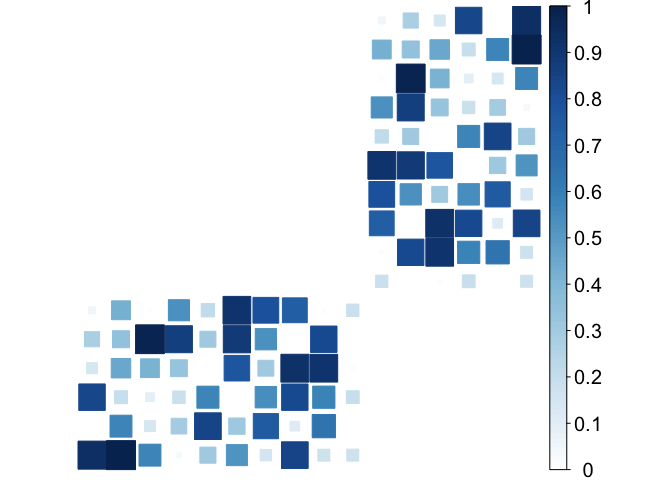
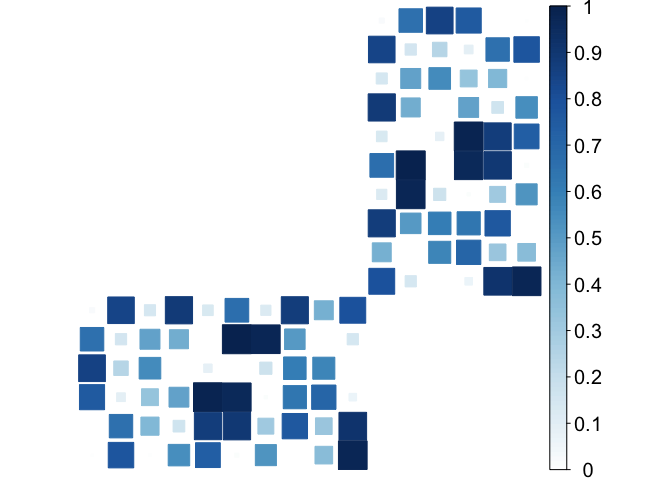
update bipartite plot

Changed region(s): [[0.0938, 0.0, 0.8125, 1.0]]

diff --git a/_site/docs/structured/bipartite/index.html b/_site/docs/structured/bipartite/index.html
@@ -194,7 +194,7 @@
           
         
         <div id="main-content" class="page-content" role="main">
-          <h1 class="no_toc" id="grid">Grid</h1>
+          <h1 class="no_toc" id="bipartite">Bipartite</h1>
 
 <h2 class="no_toc text-delta" id="table-of-contents">Table of contents</h2>
 
@@ -205,7 +205,6 @@
 </span><span class="n">library</span><span class="p">(</span><span class="n">igraph</span><span class="p">)</span><span class="w">
 </span><span class="n">library</span><span class="p">(</span><span class="n">viridis</span><span class="p">)</span><span class="w">
 </span><span class="n">library</span><span class="p">(</span><span class="n">corrplot</span><span class="p">)</span><span class="w">
-
 </span><span class="n">n</span><span class="m">1</span><span class="w"> </span><span class="o">&lt;-</span><span class="w"> </span><span class="m">10</span><span class="w">
 </span><span class="n">n</span><span class="m">2</span><span class="w"> </span><span class="o">&lt;-</span><span class="w"> </span><span class="m">6</span><span class="w">
 </span><span class="n">n</span><span class="w"> </span><span class="o">&lt;-</span><span class="w"> </span><span class="n">n</span><span class="m">1</span><span class="w"> </span><span class="o">+</span><span class="w"> </span><span class="n">n</span><span class="m">2</span><span class="w">
@@ -228,23 +227,64 @@
 </span><span class="n">Y</span><span class="w"> </span><span class="o">&lt;-</span><span class="w"> </span><span class="n">MASS</span><span class="o">::</span><span class="n">mvrnorm</span><span class="p">(</span><span class="m">10</span><span class="w"> </span><span class="o">*</span><span class="w"> </span><span class="n">n</span><span class="p">,</span><span class="w"> </span><span class="nf">rep</span><span class="p">(</span><span class="m">0</span><span class="p">,</span><span class="w"> </span><span class="n">n</span><span class="p">),</span><span class="w"> </span><span class="n">Sigma</span><span class="w"> </span><span class="o">=</span><span class="w"> </span><span class="n">MASS</span><span class="o">::</span><span class="n">ginv</span><span class="p">(</span><span class="n">Lnoisy</span><span class="p">))</span><span class="w">
 </span><span class="c1"># compute sample covariance matrix</span><span class="w">
 </span><span class="n">S</span><span class="w"> </span><span class="o">&lt;-</span><span class="w"> </span><span class="n">cov</span><span class="p">(</span><span class="n">Y</span><span class="p">)</span><span class="w">
+</span><span class="c1"># estimate Adjacency matrix</span><span class="w">
 </span><span class="n">graph</span><span class="w"> </span><span class="o">&lt;-</span><span class="w"> </span><span class="n">learn_bipartite_graph</span><span class="p">(</span><span class="n">S</span><span class="p">,</span><span class="w"> </span><span class="n">w</span><span class="m">0</span><span class="w"> </span><span class="o">=</span><span class="w"> </span><span class="s2">"qp"</span><span class="p">,</span><span class="w"> </span><span class="n">verbose</span><span class="w"> </span><span class="o">=</span><span class="w"> </span><span class="kc">FALSE</span><span class="p">)</span><span class="w">
+</span><span class="c1"># Plot Adjacency matrices: true, noisy, and estimated</span><span class="w">
 </span><span class="n">corrplot</span><span class="p">(</span><span class="n">Atrue</span><span class="w"> </span><span class="o">/</span><span class="w"> </span><span class="nf">max</span><span class="p">(</span><span class="n">Atrue</span><span class="p">),</span><span class="w"> </span><span class="n">is.corr</span><span class="w"> </span><span class="o">=</span><span class="w"> </span><span class="kc">FALSE</span><span class="p">,</span><span class="w"> </span><span class="n">method</span><span class="w"> </span><span class="o">=</span><span class="w"> </span><span class="s2">"square"</span><span class="p">,</span><span class="w"> </span><span class="n">addgrid.col</span><span class="w"> </span><span class="o">=</span><span class="w"> </span><span class="kc">NA</span><span class="p">,</span><span class="w"> </span><span class="n">tl.pos</span><span class="w"> </span><span class="o">=</span><span class="w"> </span><span class="s2">"n"</span><span class="p">,</span><span class="w"> </span><span class="n">cl.cex</span><span class="w"> </span><span class="o">=</span><span class="w"> </span><span class="m">1.25</span><span class="p">)</span><span class="w">
 </span><span class="n">corrplot</span><span class="p">(</span><span class="n">Anoisy</span><span class="w"> </span><span class="o">/</span><span class="w"> </span><span class="nf">max</span><span class="p">(</span><span class="n">Anoisy</span><span class="p">),</span><span class="w"> </span><span class="n">is.corr</span><span class="w"> </span><span class="o">=</span><span class="w"> </span><span class="kc">FALSE</span><span class="p">,</span><span class="w"> </span><span class="n">method</span><span class="w"> </span><span class="o">=</span><span class="w"> </span><span class="s2">"square"</span><span class="p">,</span><span class="w"> </span><span class="n">addgrid.col</span><span class="w"> </span><span class="o">=</span><span class="w"> </span><span class="kc">NA</span><span class="p">,</span><span class="w"> </span><span class="n">tl.pos</span><span class="w"> </span><span class="o">=</span><span class="w"> </span><span class="s2">"n"</span><span class="p">,</span><span class="w"> </span><span class="n">cl.cex</span><span class="w"> </span><span class="o">=</span><span class="w"> </span><span class="m">1.25</span><span class="p">)</span><span class="w">
 </span><span class="n">corrplot</span><span class="p">(</span><span class="n">graph</span><span class="o">$</span><span class="n">Adjacency</span><span class="w"> </span><span class="o">/</span><span class="w"> </span><span class="nf">max</span><span class="p">(</span><span class="n">graph</span><span class="o">$</span><span class="n">Adjacency</span><span class="p">),</span><span class="w"> </span><span class="n">is.corr</span><span class="w"> </span><span class="o">=</span><span class="w"> </span><span class="kc">FALSE</span><span class="p">,</span><span class="w"> </span><span class="n">method</span><span class="w"> </span><span class="o">=</span><span class="w"> </span><span class="s2">"square"</span><span class="p">,</span><span class="w"> </span><span class="n">addgrid.col</span><span class="w"> </span><span class="o">=</span><span class="w"> </span><span class="kc">NA</span><span class="p">,</span><span class="w"> </span><span class="n">tl.pos</span><span class="w"> </span><span class="o">=</span><span class="w"> </span><span class="s2">"n"</span><span class="p">,</span><span class="w"> </span><span class="n">cl.cex</span><span class="w"> </span><span class="o">=</span><span class="w"> </span><span class="m">1.25</span><span class="p">)</span><span class="w">
+</span><span class="c1"># Plot networks</span><span class="w">
+</span><span class="n">estimated_bipartite</span><span class="w"> </span><span class="o">&lt;-</span><span class="w"> </span><span class="n">graph_from_adjacency_matrix</span><span class="p">(</span><span class="n">graph</span><span class="o">$</span><span class="n">Adjacency</span><span class="p">,</span><span class="w"> </span><span class="n">mode</span><span class="w"> </span><span class="o">=</span><span class="w"> </span><span class="s2">"undirected"</span><span class="p">,</span><span class="w"> </span><span class="n">weighted</span><span class="w"> </span><span class="o">=</span><span class="w"> </span><span class="kc">TRUE</span><span class="p">)</span><span class="w">
+</span><span class="n">V</span><span class="p">(</span><span class="n">estimated_bipartite</span><span class="p">)</span><span class="o">$</span><span class="n">type</span><span class="w"> </span><span class="o">&lt;-</span><span class="w"> </span><span class="nf">c</span><span class="p">(</span><span class="nf">rep</span><span class="p">(</span><span class="m">0</span><span class="p">,</span><span class="w"> </span><span class="m">10</span><span class="p">),</span><span class="w"> </span><span class="nf">rep</span><span class="p">(</span><span class="m">1</span><span class="p">,</span><span class="w"> </span><span class="m">6</span><span class="p">))</span><span class="w">
+</span><span class="n">la</span><span class="w"> </span><span class="o">=</span><span class="w"> </span><span class="n">layout_as_bipartite</span><span class="p">(</span><span class="n">estimated_bipartite</span><span class="p">)</span><span class="w">
+</span><span class="n">colors</span><span class="w"> </span><span class="o">&lt;-</span><span class="w"> </span><span class="n">viridis</span><span class="p">(</span><span class="m">20</span><span class="p">,</span><span class="w"> </span><span class="n">begin</span><span class="w"> </span><span class="o">=</span><span class="w"> </span><span class="m">0</span><span class="p">,</span><span class="w"> </span><span class="n">end</span><span class="w"> </span><span class="o">=</span><span class="w"> </span><span class="m">1</span><span class="p">,</span><span class="w"> </span><span class="n">direction</span><span class="w"> </span><span class="o">=</span><span class="w"> </span><span class="m">-1</span><span class="p">)</span><span class="w">
+</span><span class="n">c_scale</span><span class="w"> </span><span class="o">&lt;-</span><span class="w"> </span><span class="n">colorRamp</span><span class="p">(</span><span class="n">colors</span><span class="p">)</span><span class="w">
+</span><span class="n">E</span><span class="p">(</span><span class="n">estimated_bipartite</span><span class="p">)</span><span class="o">$</span><span class="n">color</span><span class="w"> </span><span class="o">=</span><span class="w"> </span><span class="n">apply</span><span class="p">(</span><span class="n">c_scale</span><span class="p">(</span><span class="n">E</span><span class="p">(</span><span class="n">estimated_bipartite</span><span class="p">)</span><span class="o">$</span><span class="n">weight</span><span class="w"> </span><span class="o">/</span><span class="w"> </span><span class="nf">max</span><span class="p">(</span><span class="n">E</span><span class="p">(</span><span class="n">estimated_bipartite</span><span class="p">)</span><span class="o">$</span><span class="n">weight</span><span class="p">)),</span><span class="w"> </span><span class="m">1</span><span class="p">,</span><span class="w">
+                          </span><span class="k">function</span><span class="p">(</span><span class="n">x</span><span class="p">)</span><span class="w"> </span><span class="n">rgb</span><span class="p">(</span><span class="n">x</span><span class="p">[</span><span class="m">1</span><span class="p">]</span><span class="o">/</span><span class="m">255</span><span class="p">,</span><span class="w"> </span><span class="n">x</span><span class="p">[</span><span class="m">2</span><span class="p">]</span><span class="o">/</span><span class="m">255</span><span class="p">,</span><span class="w"> </span><span class="n">x</span><span class="p">[</span><span class="m">3</span><span class="p">]</span><span class="o">/</span><span class="m">255</span><span class="p">))</span><span class="w">
+</span><span class="n">E</span><span class="p">(</span><span class="n">bipartite</span><span class="p">)</span><span class="o">$</span><span class="n">color</span><span class="w"> </span><span class="o">=</span><span class="w"> </span><span class="n">apply</span><span class="p">(</span><span class="n">c_scale</span><span class="p">(</span><span class="n">E</span><span class="p">(</span><span class="n">bipartite</span><span class="p">)</span><span class="o">$</span><span class="n">weight</span><span class="w"> </span><span class="o">/</span><span class="w"> </span><span class="nf">max</span><span class="p">(</span><span class="n">E</span><span class="p">(</span><span class="n">bipartite</span><span class="p">)</span><span class="o">$</span><span class="n">weight</span><span class="p">)),</span><span class="w"> </span><span class="m">1</span><span class="p">,</span><span class="w">
+                      </span><span class="k">function</span><span class="p">(</span><span class="n">x</span><span class="p">)</span><span class="w"> </span><span class="n">rgb</span><span class="p">(</span><span class="n">x</span><span class="p">[</span><span class="m">1</span><span class="p">]</span><span class="o">/</span><span class="m">255</span><span class="p">,</span><span class="w"> </span><span class="n">x</span><span class="p">[</span><span class="m">2</span><span class="p">]</span><span class="o">/</span><span class="m">255</span><span class="p">,</span><span class="w"> </span><span class="n">x</span><span class="p">[</span><span class="m">3</span><span class="p">]</span><span class="o">/</span><span class="m">255</span><span class="p">))</span><span class="w">
+</span><span class="n">la</span><span class="w"> </span><span class="o">=</span><span class="w"> </span><span class="n">la</span><span class="p">[,</span><span class="w"> </span><span class="nf">c</span><span class="p">(</span><span class="m">2</span><span class="p">,</span><span class="w"> </span><span class="m">1</span><span class="p">)]</span><span class="w">
+</span><span class="c1"># Plot networks: true and estimated</span><span class="w">
+</span><span class="n">plot</span><span class="p">(</span><span class="n">bipartite</span><span class="p">,</span><span class="w"> </span><span class="n">layout</span><span class="w"> </span><span class="o">=</span><span class="w"> </span><span class="n">la</span><span class="p">,</span><span class="w"> </span><span class="n">vertex.color</span><span class="o">=</span><span class="nf">c</span><span class="p">(</span><span class="s2">"red"</span><span class="p">,</span><span class="s2">"black"</span><span class="p">)[</span><span class="n">V</span><span class="p">(</span><span class="n">bipartite</span><span class="p">)</span><span class="o">$</span><span class="n">type</span><span class="w"> </span><span class="o">+</span><span class="w"> </span><span class="m">1</span><span class="p">],</span><span class="w">
+     </span><span class="n">vertex.shape</span><span class="w"> </span><span class="o">=</span><span class="w"> </span><span class="nf">c</span><span class="p">(</span><span class="s2">"square"</span><span class="p">,</span><span class="w"> </span><span class="s2">"circle"</span><span class="p">)[</span><span class="n">V</span><span class="p">(</span><span class="n">bipartite</span><span class="p">)</span><span class="o">$</span><span class="n">type</span><span class="w"> </span><span class="o">+</span><span class="w"> </span><span class="m">1</span><span class="p">],</span><span class="w">
+     </span><span class="n">vertex.label</span><span class="w"> </span><span class="o">=</span><span class="w"> </span><span class="kc">NA</span><span class="p">,</span><span class="w"> </span><span class="n">vertex.size</span><span class="w"> </span><span class="o">=</span><span class="w"> </span><span class="m">3</span><span class="p">)</span><span class="w">
+</span><span class="n">plot</span><span class="p">(</span><span class="n">estimated_bipartite</span><span class="p">,</span><span class="w"> </span><span class="n">layout</span><span class="w"> </span><span class="o">=</span><span class="w"> </span><span class="n">la</span><span class="p">,</span><span class="w"> </span><span class="n">vertex.color</span><span class="o">=</span><span class="nf">c</span><span class="p">(</span><span class="s2">"red"</span><span class="p">,</span><span class="s2">"black"</span><span class="p">)[</span><span class="n">V</span><span class="p">(</span><span class="n">estimated_bipartite</span><span class="p">)</span><span class="o">$</span><span class="n">type</span><span class="w"> </span><span class="o">+</span><span class="w"> </span><span class="m">1</span><span class="p">],</span><span class="w">
+     </span><span class="n">vertex.shape</span><span class="w"> </span><span class="o">=</span><span class="w"> </span><span class="nf">c</span><span class="p">(</span><span class="s2">"square"</span><span class="p">,</span><span class="w"> </span><span class="s2">"circle"</span><span class="p">)[</span><span class="n">V</span><span class="p">(</span><span class="n">estimated_bipartite</span><span class="p">)</span><span class="o">$</span><span class="n">type</span><span class="w"> </span><span class="o">+</span><span class="w"> </span><span class="m">1</span><span class="p">],</span><span class="w">
+     </span><span class="n">vertex.label</span><span class="w"> </span><span class="o">=</span><span class="w"> </span><span class="kc">NA</span><span class="p">,</span><span class="w"> </span><span class="n">vertex.size</span><span class="w"> </span><span class="o">=</span><span class="w"> </span><span class="m">3</span><span class="p">)</span><span class="w">
 </span></code></pre></div></div>
-<p>True adjacency             | Noisy adjacency           | Estimated adjacency
-:————————-:|:————————-:|:————————</p>
 
 <table>
+  <thead>
+    <tr>
+      <th style="text-align: center">True adjacency</th>
+      <th style="text-align: center">Noisy adjacency</th>
+      <th style="text-align: center">Estimated adjacency</th>
+    </tr>
+  </thead>
   <tbody>
     <tr>
-      <td><img src="bipartite_files/figure-markdown_github/unnamed-chunk-1-1.png" alt="" /></td>
-      <td><img src="bipartite_files/figure-markdown_github/unnamed-chunk-1-2.png" alt="" /></td>
-      <td><img src="bipartite_files/figure-markdown_github/unnamed-chunk-1-3.png" alt="" /></td>
+      <td style="text-align: center"><img src="bipartite_files/figure-markdown_github/unnamed-chunk-1-1.png" alt="" /></td>
+      <td style="text-align: center"><img src="bipartite_files/figure-markdown_github/unnamed-chunk-1-2.png" alt="" /></td>
+      <td style="text-align: center"><img src="bipartite_files/figure-markdown_github/unnamed-chunk-1-3.png" alt="" /></td>
     </tr>
   </tbody>
 </table>
+
+<table>
+  <thead>
+    <tr>
+      <th style="text-align: center">True graph</th>
+      <th style="text-align: center">Estimated graph</th>
+    </tr>
+  </thead>
+  <tbody>
+    <tr>
+      <td style="text-align: center"><img src="bipartite_files/figure-markdown_github/unnamed-chunk-1-4.png" alt="" /></td>
+      <td style="text-align: center"><img src="bipartite_files/figure-markdown_github/unnamed-chunk-1-5.png" alt="" /></td>
+    </tr>
+  </tbody>
+</table>
+
 
 
           

diff --git a/docs/structured/bipartite.md b/docs/structured/bipartite.md
@@ -5,7 +5,7 @@ parent: Structured graphs
 nav_order: 1
 ---
 
-# Grid
+# Bipartite
 {: .no_toc }
 
 ## Table of contents
@@ -21,7 +21,6 @@ library(spectralGraphTopology)
 library(igraph)
 library(viridis)
 library(corrplot)
-
 n1 <- 10
 n2 <- 6
 n <- n1 + n2
@@ -44,12 +43,37 @@ Anoisy <- diag(diag(Lnoisy)) - Lnoisy
 Y <- MASS::mvrnorm(10 * n, rep(0, n), Sigma = MASS::ginv(Lnoisy))
 # compute sample covariance matrix
 S <- cov(Y)
+# estimate Adjacency matrix
 graph <- learn_bipartite_graph(S, w0 = "qp", verbose = FALSE)
+# Plot Adjacency matrices: true, noisy, and estimated
 corrplot(Atrue / max(Atrue), is.corr = FALSE, method = "square", addgrid.col = NA, tl.pos = "n", cl.cex = 1.25)
 corrplot(Anoisy / max(Anoisy), is.corr = FALSE, method = "square", addgrid.col = NA, tl.pos = "n", cl.cex = 1.25)
 corrplot(graph$Adjacency / max(graph$Adjacency), is.corr = FALSE, method = "square", addgrid.col = NA, tl.pos = "n", cl.cex = 1.25)
+# Plot networks
+estimated_bipartite <- graph_from_adjacency_matrix(graph$Adjacency, mode = "undirected", weighted = TRUE)
+V(estimated_bipartite)$type <- c(rep(0, 10), rep(1, 6))
+la = layout_as_bipartite(estimated_bipartite)
+colors <- viridis(20, begin = 0, end = 1, direction = -1)
+c_scale <- colorRamp(colors)
+E(estimated_bipartite)$color = apply(c_scale(E(estimated_bipartite)$weight / max(E(estimated_bipartite)$weight)), 1,
+                          function(x) rgb(x[1]/255, x[2]/255, x[3]/255))
+E(bipartite)$color = apply(c_scale(E(bipartite)$weight / max(E(bipartite)$weight)), 1,
+                      function(x) rgb(x[1]/255, x[2]/255, x[3]/255))
+la = la[, c(2, 1)]
+# Plot networks: true and estimated
+plot(bipartite, layout = la, vertex.color=c("red","black")[V(bipartite)$type + 1],
+     vertex.shape = c("square", "circle")[V(bipartite)$type + 1],
+     vertex.label = NA, vertex.size = 3)
+plot(estimated_bipartite, layout = la, vertex.color=c("red","black")[V(estimated_bipartite)$type + 1],
+     vertex.shape = c("square", "circle")[V(estimated_bipartite)$type + 1],
+     vertex.label = NA, vertex.size = 3)
 ```
 
 True adjacency             |  Noisy adjacency          |  Estimated adjacency
 :-------------------------:|:-------------------------:|:------------------------:
 ![](bipartite_files/figure-markdown_github/unnamed-chunk-1-1.png) | ![](bipartite_files/figure-markdown_github/unnamed-chunk-1-2.png) | ![](bipartite_files/figure-markdown_github/unnamed-chunk-1-3.png)
+
+True graph                 |  Estimated graph
+:-------------------------:|:-------------------------:
+![](bipartite_files/figure-markdown_github/unnamed-chunk-1-4.png) | ![](bipartite_files/figure-markdown_github/unnamed-chunk-1-5.png)
+
